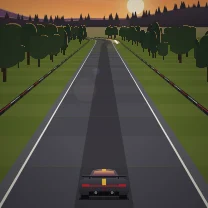
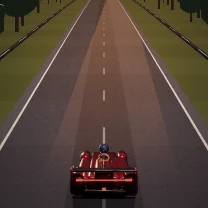
Sports overhaul: the three tiles drawn with the rendered art (the export waits for a scene's sprites)
A canvas tile scene can name the rendered sprites its renderer draws; the harness loads them and waits until the
game's loader hands each back before painting, so Cue Ball's table, Curl Champ's stones and Apex's car show in their
tiles (racingRev 4's chase view, the current pool and curling stamps). Every other scene is unchanged.

Claude-Session: https://claude.ai/code/session_011WK1FdAs7yqjRR8qfVrD4J

diff --git a/scripts/shots/tile-scenes/sports.tsx b/scripts/shots/tile-scenes/sports.tsx
@@ -5,12 +5,13 @@
  */
 import { paintHomerunTile } from "@/lib/arcade/homerun.renderer";
 import { paintFreekickTile } from "@/lib/arcade/freekick.renderer";
-import { paintRacingTile } from "@/lib/arcade/racing.renderer";
+import { paintRacingIntro } from "@/lib/arcade/racing.renderer";
+import { RACING_CAR_SPRITE_NAMES } from "@/lib/arcade/racingCar.renderer";
 import { paintMinigolfTile } from "@/lib/arcade/minigolf.renderer";
-import { poolGameFor, POOL_H } from "@/lib/arcade/pool";
+import { poolGameFor, POOL_H, POOL_REV } from "@/lib/arcade/pool";
 import { drawPool } from "@/lib/arcade/pool.renderer";
-import { curlingGameFor, CU, TEAM_MINE, TEAM_THEIRS } from "@/lib/arcade/curling";
-import { curlProject, drawCurling } from "@/lib/arcade/curling.renderer";
+import { curlingGameFor, CU, CURLING_REV, TEAM_MINE, TEAM_THEIRS } from "@/lib/arcade/curling";
+import { curlProject, curlViewFor, drawCurling } from "@/lib/arcade/curling.renderer";
 
 import { AR_FLY } from "@/lib/arcade/alleyroll";
 import { AR_WORLD_H, AR_WORLD_W, drawAlleyRoll, ringerStill } from "@/lib/arcade/alleyroll.renderer";
@@ -34,15 +35,19 @@ export const SPORTS_SCENES: SceneSet = {
     noText(c, () => paintFreekickTile(c, TILE));
     fade(c, 0.4);
   }),
-  racing: canvasScene((c) => {
-    noText(c, () => paintRacingTile(c, TILE));
-    fade(c, 0.35);
-  }),
+  // Apex (the Sports overhaul): the chase view on Sunset Park with the rendered car and the Captain at the wheel.
+  racing: canvasScene(
+    (c) => {
+      noText(c, () => paintRacingIntro(c, TILE));
+      fade(c, 0.35);
+    },
+    [["racing", RACING_CAR_SPRITE_NAMES]],
+  ),
   // Minigolf: a corner of a hole at night, the ball lined up on the cup past a boulder.
   minigolf: canvasScene((c) => paintMinigolfTile(c, TILE)),
   // Speed Pool: the bottom-left corner pocket, a spot ball on the lip, a stripe and the cue ball lined up behind.
   pool: canvasScene((c) => {
-    const s = poolGameFor(1).init(1);
+    const s = poolGameFor(POOL_REV).init(1);
     const ball = (id: number, x: number, y: number) => ({ id, x: x * 256, y: y * 256, vx: 0, vy: 0, down: 0 });
     const tile = { ...s, balls: [ball(0, 112, 610), ball(3, 62, 662), ball(11, 104, 680), ball(8, 50, 600)] };
     c.save();
@@ -50,10 +55,10 @@ export const SPORTS_SCENES: SceneSet = {
     c.translate(0, -(POOL_H - 150));
     drawPool(c, tile, null);
     c.restore();
-  }),
+  }, [["pool", ["table"]]]),
   // Curling: the far house down the sheet, a gold-handled stone on the button and a red one being knocked away.
   curling: canvasScene((c) => {
-    const base = curlingGameFor(1).init(1);
+    const base = curlingGameFor(CURLING_REV).init(1);
     const stones: [number, number, number][] = [[0, 4, TEAM_MINE], [58, -40, TEAM_THEIRS], [-70, 60, TEAM_MINE]];
     const s = {
       ...base,
@@ -67,15 +72,15 @@ export const SPORTS_SCENES: SceneSet = {
       theirs: 1,
       thrown: 2,
     };
-    const house = curlProject(0, 0);
-    const zoom = TILE / (house.k * 230);
+    const house = curlProject(0, 0, curlViewFor(CURLING_REV));
+    const zoom = TILE / (house.k * 150);
     c.save();
-    c.translate(TILE / 2, TILE * 0.62);
+    c.translate(TILE / 2, TILE * 0.56);
     c.scale(zoom, zoom);
     c.translate(-house.sx, -house.sy);
     drawCurling(c, s, null);
     c.restore();
-  }),
+  }, [["curling", ["arena", "stone-gold", "stone-red"]]]),
   // Ringer: the funfair board close up, the raised cup tower with a blue ball dropping toward the 50, the gold cup
   // gliding on its track behind and a 100 pocket in the corner.
   alleyroll: canvasScene((c) => {

diff --git a/scripts/shots/tile-scenes/harness.tsx b/scripts/shots/tile-scenes/harness.tsx
@@ -67,9 +67,29 @@ function BackgroundBox({ type }: { type: string }) {
 }
 
 /** Mounts the scenes for `types` (all when empty); resolves with the types mounted once art and fonts have loaded. */
+/**
+ * Loads the rendered sprites every wanted scene names (the Sports overhaul, 15 Nov 2026) and waits until the game's
+ * loader hands each one back, so the tile is painted with the real art. Fails loudly if one never arrives.
+ */
+async function loadSceneSprites(wanted: string[]): Promise<void> {
+  const need: [string, string][] = [];
+  for (const t of wanted) {
+    const scene = ALL_SCENES[t as keyof SceneSet];
+    if (scene?.kind === "canvas") for (const [game, names] of scene.sprites ?? []) for (const n of names) need.push([game, n]);
+  }
+  if (need.length === 0) return;
+  const { sportsSprite } = await import("@/lib/arcade/sportsSprites");
+  for (let i = 0; i < 200; i++) {
+    if (need.every(([g, n]) => sportsSprite(g, n) !== null)) return;
+    await new Promise((r) => setTimeout(r, 50));
+  }
+  throw new Error(`tile sprites never loaded: ${need.filter(([g, n]) => sportsSprite(g, n) === null).map(([g, n]) => `${g}/${n}`).join(", ")}`);
+}
+
 export async function mountScenes(types: string[]): Promise<string[]> {
   const wanted = (types.length ? types : Object.keys(ALL_SCENES)).filter((t) => ALL_SCENES[t as keyof SceneSet]);
   await Promise.all(wanted.map((t) => preloadGameArt(t).catch(() => undefined)));
+  await loadSceneSprites(wanted);
   await document.fonts.ready;
   document.getElementById("tile-scenes-host")?.remove();
   const host = document.createElement("div");

diff --git a/scripts/shots/tile-scenes/scene.tsx b/scripts/shots/tile-scenes/scene.tsx
@@ -19,13 +19,24 @@ export const TILE = 104;
 
 export type TileScene =
   /** Painted on a canvas already scaled to CSS px (`k` = device px per CSS px, 2, for renderers that cache sprites). */
-  | { kind: "canvas"; paint: (c: CanvasRenderingContext2D, k: number) => void }
+  | {
+      kind: "canvas";
+      paint: (c: CanvasRenderingContext2D, k: number) => void;
+      /**
+       * Rendered sprites the scene's renderer draws once loaded (src/lib/arcade/sportsSprites.ts: [game, names]); the
+       * harness waits for them before painting, so the tile shows the game's real art, not its painted fallback.
+       */
+      sprites?: readonly (readonly [string, readonly string[]])[];
+    }
   /** Rendered as DOM (the game's own components and CSS) into the TILE × TILE box. */
   | { kind: "dom"; render: () => ReactNode };
 
 export type SceneSet = Partial<Record<PuzzleType, TileScene>>;
 
-export const canvasScene = (paint: (c: CanvasRenderingContext2D, k: number) => void): TileScene => ({ kind: "canvas", paint });
+export const canvasScene = (
+  paint: (c: CanvasRenderingContext2D, k: number) => void,
+  sprites?: readonly (readonly [string, readonly string[]])[],
+): TileScene => (sprites ? { kind: "canvas", paint, sprites } : { kind: "canvas", paint });
 export const domScene = (render: () => ReactNode): TileScene => ({ kind: "dom", render });
 
 /** Runs `paint` translated to (x, y) and scaled by s. */

diff --git a/src/components/app/gameIcons/tileScenes.data.ts b/src/components/app/gameIcons/tileScenes.data.ts
@@ -25,7 +25,7 @@ export const TILE_SCENES: Partial<Record<PuzzleType, string>> = {
   codeword: "bef060a98d",
   countup: "c623e7e01a",
   cross: "f6bae9408c",
-  curling: "8b3b9ddc0b",
+  curling: "c685d65ce0",
   dig: "3e4992d3a9",
   dual: "64cb1a74d3",
   equation: "12307ac0f9",
@@ -66,10 +66,10 @@ export const TILE_SCENES: Partial<Record<PuzzleType, string>> = {
   pinball: "c9bad8201a",
   pipes: "41555830cc",
   pokersquares: "7dbb164210",
-  pool: "037e01f78a",
+  pool: "04bcefa6ae",
   push: "06faa6ebd7",
   pyramid: "203b3c1aa2",
-  racing: "228b760843",
+  racing: "0e1451d0b8",
   rally: "e1d66a7d52",
   reaction: "d6a6b1f58e",
   ricochet: "fad80eb88d",
